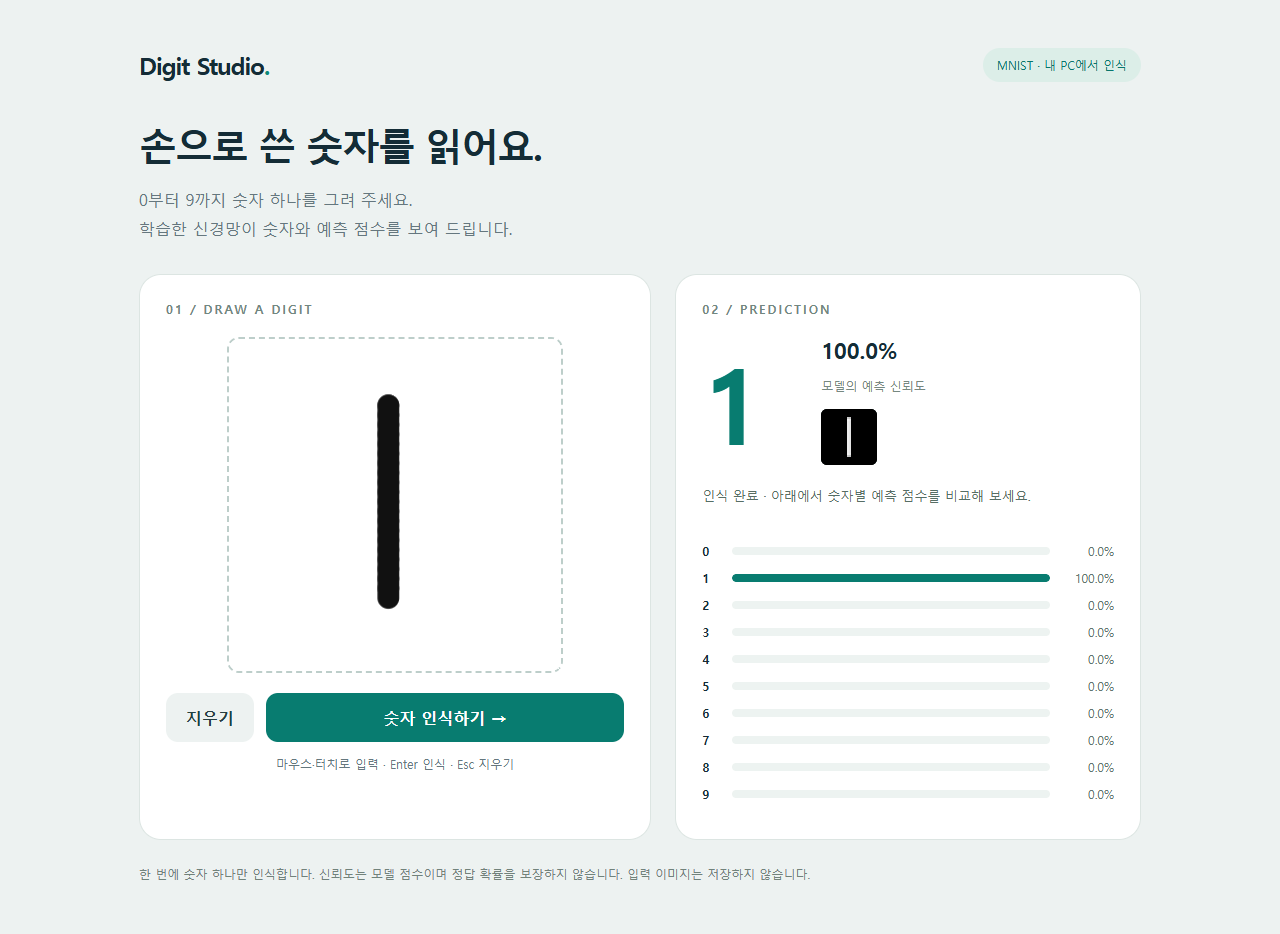
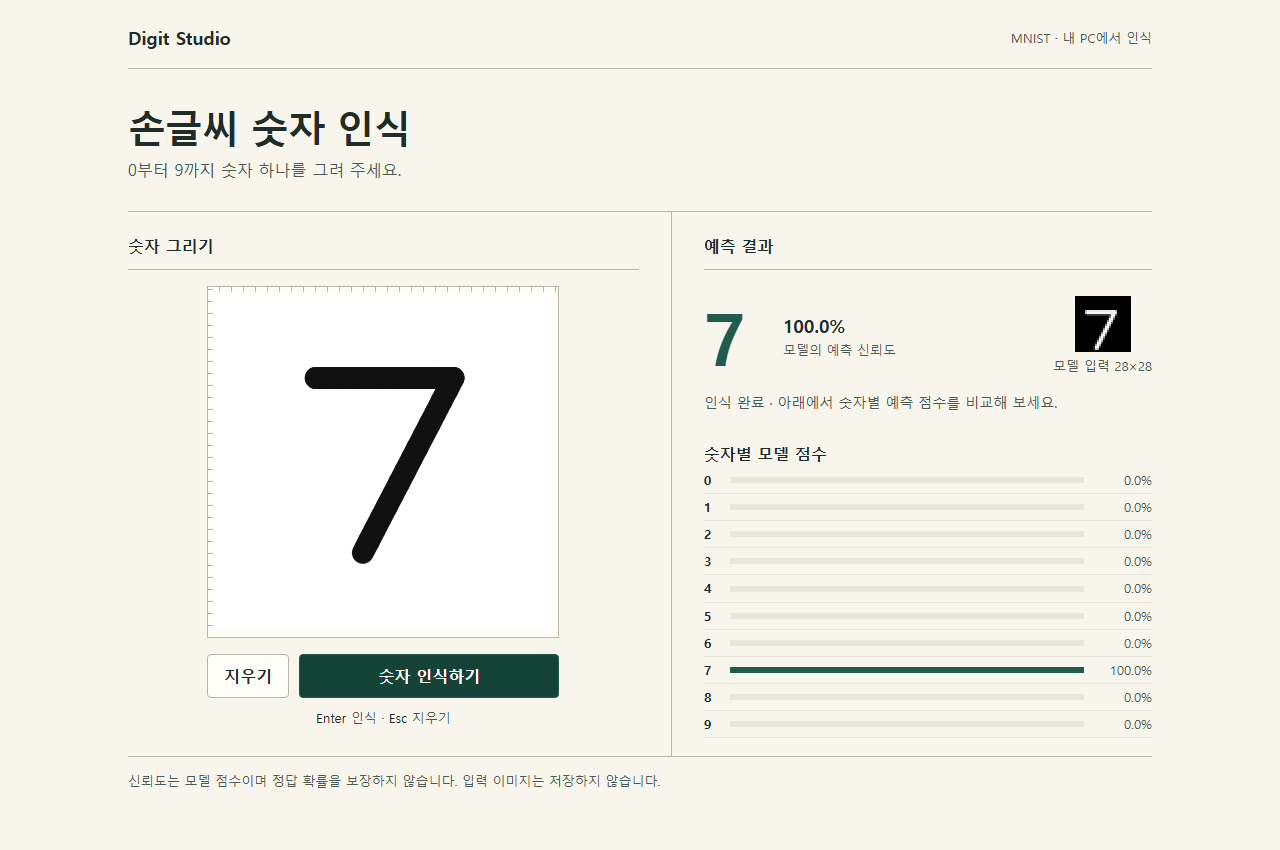
Refine the digit recognition worksheet

diff --git a/web_version/index.html b/web_version/index.html
@@ -1,19 +1,191 @@
 <!doctype html>
-<html lang="ko"><head><meta charset="utf-8"><meta name="viewport" content="width=device-width,initial-scale=1"><title>Digit Studio · 손글씨 인식</title>
-<style>
-:root{font-family:system-ui,'Malgun Gothic',sans-serif;color:#142c36;background:#edf2f1}*{box-sizing:border-box}body{margin:0}main{max-width:1050px;margin:48px auto;padding:0 24px}header{display:flex;justify-content:space-between;align-items:center;margin-bottom:38px}.brand{font-weight:800;letter-spacing:-1px;font-size:24px}.pill{color:#08766c;font-size:12px;background:#dceee8;padding:9px 14px;border-radius:30px}h1{font-size:38px;letter-spacing:-2px;margin:0 0 12px}p{color:#65777e;line-height:1.8}.grid{display:grid;grid-template-columns:1.1fr 1fr;gap:24px;margin-top:30px}.card{background:#fff;border:1px solid #dce5e2;border-radius:22px;padding:26px}.label{font-size:12px;letter-spacing:2px;color:#718781;font-weight:700}.canvasbox{margin:20px auto;max-width:336px;position:relative}#draw{display:block;width:100%;aspect-ratio:1;background:#fff;border:2px dashed #bdceca;border-radius:12px;touch-action:none;cursor:crosshair}button{border:0;border-radius:12px;padding:14px 20px;font:inherit;font-weight:700;cursor:pointer;background:#edf2f1;color:#253e40}button.primary{background:#087c70;color:white;flex:1}button:disabled{opacity:.5;cursor:wait}.actions{display:flex;gap:12px}.hint{font-size:12px;text-align:center;margin-bottom:0}.prediction{display:flex;align-items:center;gap:24px;margin:18px 0}#digit{font-size:104px;font-weight:750;line-height:1.2;min-width:95px;color:#087c70}#confidence{font-size:22px;font-weight:700}.muted{font-size:12px;color:#768880}#preview{width:56px;height:56px;image-rendering:pixelated;background:#102623;border-radius:6px}.barrow{display:grid;grid-template-columns:18px 1fr 52px;align-items:center;gap:12px;margin:11px 0;font-size:12px}.track{height:8px;background:#edf3f1;border-radius:8px;overflow:hidden}.bar{height:100%;background:#b8ccc6;border-radius:8px;transition:width .25s}.bar.best{background:#087c70}.pct{text-align:right;color:#62756e}#status{min-height:45px;font-size:13px;margin:10px 0;color:#576e65}.footer{margin-top:24px;font-size:12px;color:#71827b} @media(max-width:720px){main{margin:24px auto;padding:0 16px}.grid{grid-template-columns:1fr}h1{font-size:30px}.card{padding:20px}.pill{font-size:10px}}
-</style></head><body><main><header><div class="brand">Digit Studio<span style="color:#0b8b79">.</span></div><span class="pill">MNIST · 내 PC에서 인식</span></header><h1>손으로 쓴 숫자를 읽어요.</h1><p>0부터 9까지 숫자 하나를 그려 주세요.<br>학습한 신경망이 숫자와 예측 점수를 보여 드립니다.</p><div class="grid"><section class="card"><div class="label">01 / DRAW A DIGIT</div><div class="canvasbox"><canvas id="draw" width="336" height="336" aria-label="숫자 그리기 영역"></canvas></div><div class="actions"><button id="clear">지우기</button><button class="primary" id="recognize">숫자 인식하기 →</button></div><p class="hint">마우스·터치로 입력 · Enter 인식 · Esc 지우기</p></section><section class="card"><div class="label">02 / PREDICTION</div><div class="prediction"><div id="digit">—</div><div><div id="confidence">입력 대기</div><p class="muted">모델의 예측 신뢰도</p><canvas id="preview" width="28" height="28" aria-label="전처리된 이미지"></canvas></div></div><div id="status" role="status" aria-live="polite">왼쪽에 숫자를 크게 그린 뒤 인식 버튼을 눌러 주세요.</div><div id="bars"></div></section></div><p class="footer">한 번에 숫자 하나만 인식합니다. 신뢰도는 모델 점수이며 정답 확률을 보장하지 않습니다. 입력 이미지는 저장하지 않습니다.</p></main>
+<html lang="ko">
+<head>
+  <meta charset="utf-8">
+  <meta name="viewport" content="width=device-width, initial-scale=1">
+  <title>Digit Studio · 손글씨 인식</title>
+  <style>
+    :root {
+      --paper: #f8f5ec;
+      --cream: #fffdf7;
+      --ink: #202c29;
+      --muted: #4c5a54;
+      --rule: #b9b6a7;
+      --track: #e9e6da;
+      --accent: #215b4c;
+      --accent-hover: #164337;
+      font: 16px/1.55 system-ui, 'Malgun Gothic', sans-serif;
+      color: var(--ink);
+      background: var(--paper);
+    }
+    * { box-sizing: border-box; }
+    body { margin: 0; }
+    ::selection { color: var(--ink); background: #bce1d2; }
+    main { max-width: 68rem; margin-inline: auto; padding: 0 2rem 2rem; }
+    header {
+      display: flex;
+      align-items: center;
+      justify-content: space-between;
+      gap: 0.5rem 1.5rem;
+      padding: 1.5rem 0 1rem;
+      border-bottom: 1px solid var(--rule);
+    }
+    .brand { font-size: 1.125rem; font-weight: 750; }
+    .model { color: var(--muted); font-size: 0.8125rem; }
+    .intro { margin: 2.25rem 0 1.75rem; }
+    h1 { margin: 0; font-size: 2.375rem; line-height: 1.2; letter-spacing: -0.03em; }
+    h2, h3 { margin: 0; font-size: 1rem; font-weight: 700; }
+    .intro p { margin: 0.5rem 0 0; color: var(--muted); }
+    .workspace {
+      display: grid;
+      grid-template-columns: 1.06fr minmax(0, 0.94fr);
+      border-block: 1px solid var(--rule);
+    }
+    .input { padding: 1.375rem 2rem 1.125rem 0; }
+    .output { border-left: 1px solid var(--rule); padding: 1.375rem 0 1.125rem 2rem; }
+    .input h2, .output h2 { padding-bottom: 0.625rem; border-bottom: 1px solid var(--rule); }
+    .canvasbox {
+      position: relative;
+      max-width: 22rem;
+      margin: 1rem auto;
+      padding: 7px;
+      border: 1px solid var(--rule);
+      background:
+        repeating-linear-gradient(90deg, transparent 0 11px, var(--rule) 11px 12px) left top / 100% 5px no-repeat,
+        repeating-linear-gradient(0deg, transparent 0 11px, var(--rule) 11px 12px) left top / 5px 100% no-repeat,
+        var(--cream);
+    }
+    #draw { display: block; width: 100%; aspect-ratio: 1; touch-action: none; cursor: crosshair; }
+    .actions { display: flex; gap: 0.625rem; max-width: 22rem; margin-inline: auto; }
+    button {
+      border: 1px solid var(--rule);
+      border-radius: 4px;
+      min-height: 44px;
+      padding: 0.5rem 1rem;
+      font: inherit;
+      font-weight: 650;
+      color: inherit;
+      background: var(--cream);
+      cursor: pointer;
+    }
+    button:hover:not(:disabled) { background: var(--track); }
+    button.primary { flex: 1; background: var(--accent); border-color: var(--accent); color: white; }
+    button.primary:hover:not(:disabled) { background: var(--accent-hover); }
+    button:focus-visible { outline: 2px solid var(--accent); outline-offset: 3px; }
+    button:disabled { opacity: 0.55; cursor: wait; }
+    .hint { margin: 0.625rem 0 0; text-align: center; }
+    kbd { font-family: inherit; color: var(--ink); }
+    .prediction {
+      min-height: 7rem;
+      margin-top: 0.625rem;
+      display: grid;
+      grid-template-columns: auto minmax(0, 1fr) auto;
+      align-items: center;
+      gap: 1.125rem;
+    }
+    #digit {
+      min-width: 0.85em;
+      color: var(--accent);
+      font-size: 4.5rem;
+      font-variant-numeric: tabular-nums;
+      font-weight: 720;
+      line-height: 1;
+    }
+    #confidence { font-size: 1.125rem; font-weight: 700; font-variant-numeric: tabular-nums; }
+    .prediction p { margin: 0; }
+    figure { margin: 0; text-align: center; }
+    #preview {
+      display: block;
+      margin-inline: auto;
+      width: 56px;
+      height: 56px;
+      image-rendering: pixelated;
+      background: #202b28;
+    }
+    figcaption { margin-top: 0.25rem; }
+    .hint, figcaption, .prediction p, .footer { color: var(--muted); font-size: 0.8125rem; }
+    #status { min-height: 2.625rem; margin: 0 0 0.5rem; font-size: 0.875rem; color: var(--muted); }
+    .barrow {
+      display: grid;
+      grid-template-columns: 1rem minmax(0, 1fr) 3.625rem;
+      align-items: center;
+      gap: 0.625rem;
+      font-size: 0.8125rem;
+      font-variant-numeric: tabular-nums;
+      padding: 0.1875rem 0;
+      border-bottom: 1px solid var(--track);
+    }
+    .track { height: 0.375rem; background: var(--track); overflow: hidden; }
+    .bar { height: 100%; background: #779388; transition: width 180ms ease-out; }
+    .bar.best { background: var(--accent); }
+    .pct { text-align: right; color: var(--muted); }
+    .footer { margin: 0.875rem 0 0; }
+    @media (max-width: 720px) {
+      main { padding: 0 1rem 1.5rem; }
+      header { flex-wrap: wrap; padding-top: 1rem; }
+      .intro { margin-top: 1.625rem; }
+      h1 { font-size: 1.875rem; }
+      .workspace { grid-template-columns: minmax(0, 1fr); }
+      .input, .output { padding-inline: 0; }
+      .output { border-top: 1px solid var(--rule); border-left: 0; }
+    }
+    @media (max-width: 370px) { .prediction { gap: 0.5rem; } }
+    @media (prefers-reduced-motion: reduce) { .bar { transition: none; } }
+  </style>
+</head>
+<body>
+<main>
+  <header>
+    <span class="brand">Digit Studio</span>
+    <span class="model">MNIST · 내 PC에서 인식</span>
+  </header>
+  <div class="intro">
+    <h1>손글씨 숫자 인식</h1>
+    <p>0부터 9까지 숫자 하나를 그려 주세요.</p>
+  </div>
+  <div class="workspace">
+    <section class="input" aria-labelledby="draw-heading">
+      <h2 id="draw-heading">숫자 그리기</h2>
+      <div class="canvasbox">
+        <canvas id="draw" width="336" height="336" aria-label="숫자 그리기 영역"></canvas>
+      </div>
+      <div class="actions">
+        <button id="clear" type="button">지우기</button>
+        <button class="primary" id="recognize" type="button">숫자 인식하기</button>
+      </div>
+      <p class="hint"><kbd>Enter</kbd> 인식 · <kbd>Esc</kbd> 지우기</p>
+    </section>
+    <section class="output" aria-labelledby="result-heading">
+      <h2 id="result-heading">예측 결과</h2>
+      <div class="prediction">
+        <div id="digit">—</div>
+        <div>
+          <div id="confidence">입력 대기</div>
+          <p>모델의 예측 신뢰도</p>
+        </div>
+        <figure>
+          <canvas id="preview" width="28" height="28" aria-label="전처리된 이미지"></canvas>
+          <figcaption>모델 입력 28×28</figcaption>
+        </figure>
+      </div>
+      <p id="status" role="status" aria-live="polite"></p>
+      <h3>숫자별 모델 점수</h3>
+      <div id="bars"></div>
+    </section>
+  </div>
+  <p class="footer">신뢰도는 모델 점수이며 정답 확률을 보장하지 않습니다. 입력 이미지는 저장하지 않습니다.</p>
+</main>
 <script>
 const canvas=document.getElementById('draw'),ctx=canvas.getContext('2d'),preview=document.getElementById('preview'),pctx=preview.getContext('2d');
 const digit=document.getElementById('digit'),confidence=document.getElementById('confidence'),status=document.getElementById('status'),run=document.getElementById('recognize'),clear=document.getElementById('clear'),bars=document.getElementById('bars');
 let drawing=false,ink=false,revision=0,busy=false;
 for(let i=0;i<10;i++){const row=document.createElement('div');row.className='barrow';row.innerHTML=`<b>${i}</b><div class="track"><div class="bar" id="bar${i}" style="width:0"></div></div><span class="pct" id="pct${i}">—</span>`;bars.append(row)}
-function resetResult(){digit.textContent='—';confidence.textContent='입력 대기';pctx.clearRect(0,0,28,28);for(let i=0;i<10;i++){document.getElementById('bar'+i).style.width='0';document.getElementById('pct'+i).textContent='—'}}
+function resetResult(){digit.textContent='—';confidence.textContent='입력 대기';pctx.clearRect(0,0,28,28);for(let i=0;i<10;i++){const bar=document.getElementById('bar'+i);bar.style.width='0';bar.classList.remove('best');document.getElementById('pct'+i).textContent='—'}}
 function erase(){revision++;drawing=false;ink=false;ctx.fillStyle='white';ctx.fillRect(0,0,336,336);resetResult();status.textContent='숫자 하나를 크게 그려 주세요.'}
 function position(e){const r=canvas.getBoundingClientRect();return [(e.clientX-r.left)*336/r.width,(e.clientY-r.top)*336/r.height]}
 canvas.addEventListener('pointerdown',e=>{if(busy)return;e.preventDefault();canvas.setPointerCapture(e.pointerId);drawing=true;ink=true;revision++;resetResult();status.textContent='인식 버튼을 누르면 결과를 확인할 수 있습니다.';const [x,y]=position(e);ctx.fillStyle='#111';ctx.beginPath();ctx.arc(x,y,11,0,Math.PI*2);ctx.fill();ctx.beginPath();ctx.moveTo(x,y)});
 canvas.addEventListener('pointermove',e=>{if(!drawing)return;const [x,y]=position(e);ctx.lineWidth=22;ctx.lineCap='round';ctx.lineJoin='round';ctx.strokeStyle='#111';ctx.lineTo(x,y);ctx.stroke();ctx.beginPath();ctx.moveTo(x,y)});
 for(const name of ['pointerup','pointercancel','lostpointercapture'])canvas.addEventListener(name,()=>drawing=false);
 async function recognize(){if(busy)return;if(!ink){status.textContent='먼저 숫자를 그려 주세요.';return}busy=true;drawing=false;run.disabled=true;clear.disabled=true;const current=revision;status.textContent='숫자를 분석하고 있습니다…';const controller=new AbortController();const timer=setTimeout(()=>controller.abort(),10000);try{const response=await fetch('/predict',{method:'POST',headers:{'Content-Type':'application/json'},body:JSON.stringify({image:canvas.toDataURL('image/png')}),signal:controller.signal});const r=await response.json();if(!response.ok)throw new Error(r.error||'Recognition failed');if(current!==revision)return;digit.textContent=r.digit;confidence.textContent=(r.confidence*100).toFixed(1)+'%';status.textContent=r.confidence<.7?'점수가 낮습니다. 숫자를 지우고 더 또렷하게 써 보세요.':'인식 완료 · 아래에서 숫자별 예측 점수를 비교해 보세요.';for(let i=0;i<10;i++){const bar=document.getElementById('bar'+i);bar.style.width=r.probabilities[i]*100+'%';bar.className='bar'+(i===r.digit?' best':'');document.getElementById('pct'+i).textContent=(r.probabilities[i]*100).toFixed(1)+'%'}const im=pctx.createImageData(28,28);r.pixels.flat().forEach((v,i)=>{im.data[i*4]=im.data[i*4+1]=im.data[i*4+2]=v;im.data[i*4+3]=255});pctx.putImageData(im,0,0)}catch(e){status.textContent='인식 실패: '+(e.name==='AbortError'?'응답 시간이 초과되었습니다.':e.message)+' 실행 창을 확인해 주세요.'}finally{clearTimeout(timer);busy=false;run.disabled=false;clear.disabled=false}}
-clear.onclick=erase;run.onclick=recognize;document.addEventListener('keydown',e=>{if(e.key==='Enter'){e.preventDefault();recognize()}if(e.key==='Escape'&&!busy)erase()});erase();
+clear.onclick=erase;run.onclick=recognize;document.addEventListener('keydown',e=>{if(e.key==='Enter'&&!e.target.closest('button')){e.preventDefault();recognize()}if(e.key==='Escape'&&!busy)erase()});erase();
 </script></body></html>
